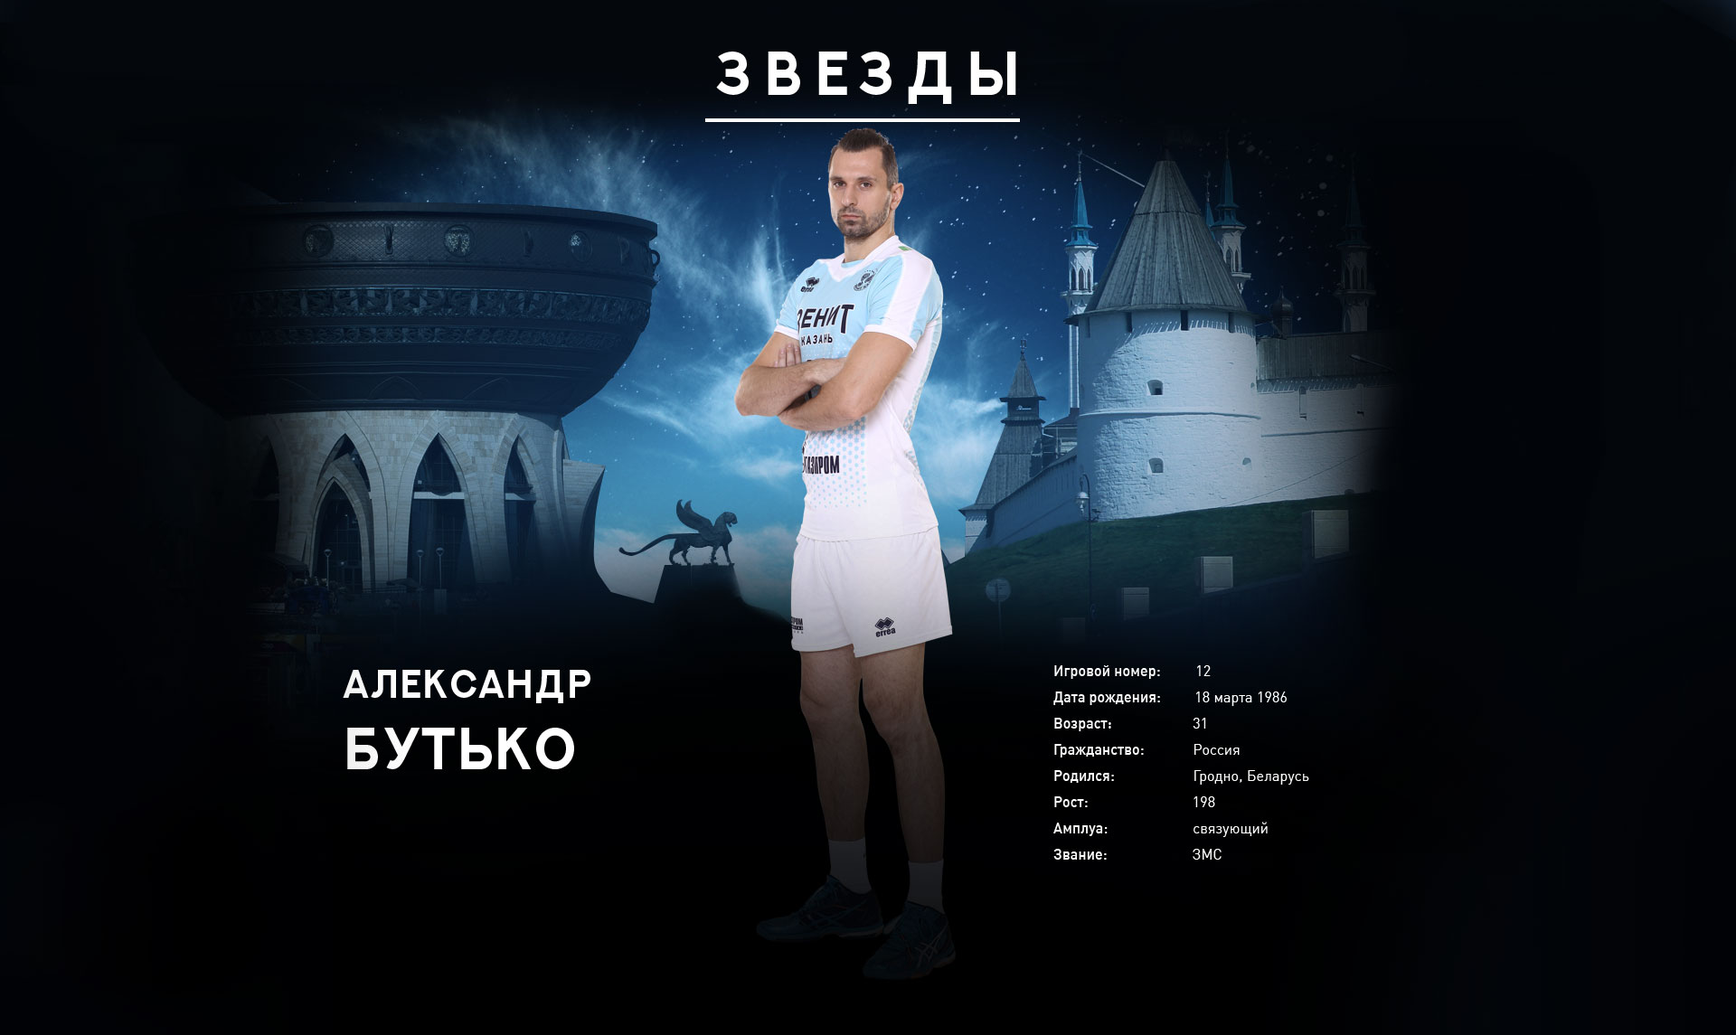
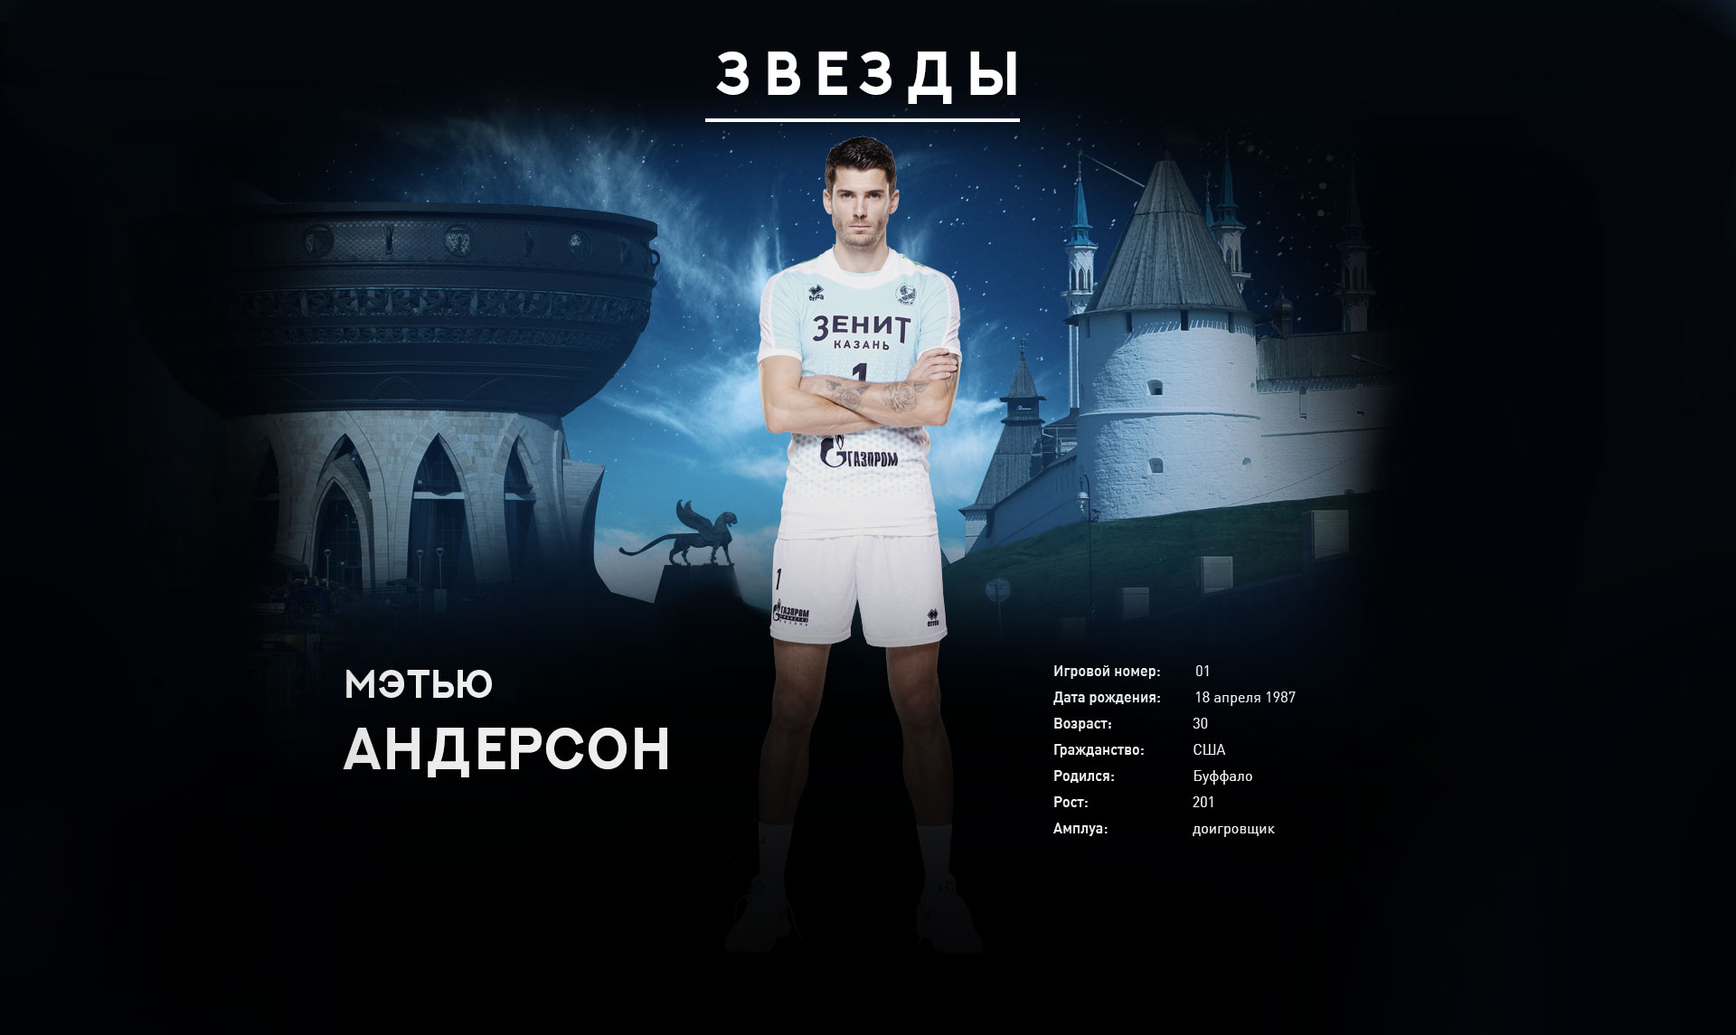
edit

diff --git a/portfol/zenit-landing/css/style.css b/portfol/zenit-landing/css/style.css
@@ -1,1 +1,1 @@
-@import url(https://fonts.googleapis.com/css?family=Open+Sans:300,400,600,700&subset=cyrillic);@font-face{font-family:'NEXTART-Thin';src:url(../fonts/NEXTART-Thin.eot);src:url(../fonts/NEXTART-Thin.woff2) format("woff2"),url(../fonts/NEXTART-Thin.woff) format("woff"),url(../fonts/NEXTART-Thin.ttf) format("truetype"),url(../fonts/NEXTART-Thin.svg#NEXTART-Thin) format("svg"),url(../fonts/NEXTART-Thin.eot?#iefix) format("embedded-opentype");font-weight:400;font-style:normal}@font-face{font-family:'NEXTART-Bold';src:url(../fonts/NEXTART-Bold.eot);src:url(../fonts/NEXTART-Bold.woff2) format("woff2"),url(../fonts/NEXTART-Bold.woff) format("woff"),url(../fonts/NEXTART-Bold.ttf) format("truetype"),url(../fonts/NEXTART-Bold.svg#NEXTART-Bold) format("svg"),url(../fonts/NEXTART-Bold.eot?#iefix) format("embedded-opentype");font-weight:400;font-style:normal}@font-face{font-family:'DINPro-Medium';src:url(../fonts/DINPro-Medium.eot);src:url(../fonts/DINPro-Medium.eot?#iefix) format("embedded-opentype"),url(../fonts/DINPro-Medium.woff2) format("woff2"),url(../fonts/DINPro-Medium.woff) format("woff"),url(../fonts/DINPro-Medium.ttf) format("truetype"),url(../fonts/DINPro-Medium.svg#DINPro-Medium) format("svg");font-weight:500;font-style:normal}@font-face{font-family:'DINPro-Bold';src:url(../fonts/DINPro-Bold.eot);src:url(../fonts/DINPro-Bold.eot?#iefix) format("embedded-opentype"),url(../fonts/DINPro-Bold.woff2) format("woff2"),url(../fonts/DINPro-Bold.woff) format("woff"),url(../fonts/DINPro-Bold.ttf) format("truetype"),url(../fonts/DINPro-Bold.svg#DINPro-Bold) format("svg");font-weight:700;font-style:normal}@font-face{font-family:'DINPro-Light';src:url(../fonts/DINPro-Light.eot);src:url(../fonts/DINPro-Light.eot?#iefix) format("embedded-opentype"),url(../fonts/DINPro-Light.woff2) format("woff2"),url(../fonts/DINPro-Light.woff) format("woff"),url(../fonts/DINPro-Light.ttf) format("truetype"),url(../fonts/DINPro-Light.svg#DINPro-Light) format("svg");font-weight:300;font-style:normal}@font-face{font-family:'DINPro-Black';src:url(../fonts/DINPro-Black.eot);src:url(../fonts/DINPro-Black.eot?#iefix) format("embedded-opentype"),url(../fonts/DINPro-Black.woff2) format("woff2"),url(../fonts/DINPro-Black.woff) format("woff"),url(../fonts/DINPro-Black.ttf) format("truetype"),url(../fonts/DINPro-Black.svg#DINPro-Black) format("svg");font-weight:900;font-style:normal}@font-face{font-family:'DINPro-Regular';src:url(../fonts/DINPro-Regular.eot);src:url(../fonts/DINPro-Regular.eot?#iefix) format("embedded-opentype"),url(../fonts/DINPro-Regular.woff2) format("woff2"),url(../fonts/DINPro-Regular.woff) format("woff"),url(../fonts/DINPro-Regular.ttf) format("truetype"),url(../fonts/DINPro-Regular.svg#DINPro-Regular) format("svg");font-weight:400;font-style:normal}body,html{min-width:1320px;font-family:"DINPro-Regular",sans-serif}h1,h2,h3,h4{font-weight:300;font-size:3em}.header{background:url(../img/header-background.jpg) no-repeat center;background-size:cover;min-height:1010px;padding-top:45px;position:relative}.header .title-header{position:absolute;bottom:0;height:320px;background-color:rgba(0,0,0,.2);width:100%;padding-top:45px}.header .title-header .title-zenit-header{font-size:84px;color:#fff;border-bottom:4px solid;text-transform:uppercase;font-family:"NEXTART-Bold",sans-serif;letter-spacing:20px;display:inline-block;padding-bottom:5px;padding-left:15px}.header .title-header .text-zenit-header{color:#fff;font-size:44px;text-transform:uppercase;font-family:NEXTART-Thin,sans-serif;padding-top:5px;display:inline-block}.container{min-width:1320px;width:1320px;right:0;left:0;margin:auto}.list-nav-header{padding-left:0}.list-nav-header li{display:inline-block;margin-right:40px}.list-nav-header li:last-child{margin-right:0}.list-nav-header li a{font-family:"NEXTART-Bold",sans-serif;text-transform:uppercase;font-size:24px;color:#fff;text-decoration:none}.btn-price{background-color:#00c7df;padding:10px 15px;position:relative;display:inline-block}.btn-price:after{content:"";position:absolute;left:0;top:0;right:0;bottom:0;border:2px dotted #fff;margin:5px}.titul-bl{padding-top:50px}.title-titul{color:#00ade5;text-transform:uppercase;font-size:74px;font-family:"NEXTART-Bold",sans-serif;letter-spacing:20px}.row-titul-list{margin-top:35px;margin-bottom:90px}.row-titul-list .col-titul{border-right:2px solid #0b177e;text-align:center;width:20%}.row-titul-list .col-titul:last-child{border-right:0}.row-titul-list .number-image{height:260px;position:relative;margin-top:-22px}.row-titul-list .number-image .number{font-size:337px;color:#9ce4fb;line-height:0;margin-top:151px;display:inline-block;font-family:"NEXTART-Bold",sans-serif}.row-titul-list .number-image .image{position:absolute;left:-60px;right:0;margin:auto;bottom:0}.row-titul-list .bl-title{margin-top:60px}.row-titul-list .bl-title .title{font-size:32px;color:#00ade5;text-transform:uppercase;font-family:"NEXTART-Bold",sans-serif;display:block}.row-titul-list .bl-title .years-titul{display:block;font-size:18px;color:#00ade5;font-family:NEXTART-Thin,sans-serif}.swiper-container{width:100%;height:1140px}.swiper-container .swiper-wrapper .swiper-slide{background-position:center;background-size:cover}.title-slider{font-size:68px;color:#fff;border-bottom:4px solid;text-transform:uppercase;font-family:"NEXTART-Bold",sans-serif;letter-spacing:20px;display:inline-block;padding-bottom:5px;padding-left:15px}.bl-title-slider{padding-top:50px;text-align:center;position:absolute;z-index:2}.pagin-bl{width:80%;position:absolute;margin:auto;right:0;left:0;top:0;bottom:0}.pagin-bl .swiper-button-white{height:380px;top:0;bottom:0;margin:auto}.slider-stars{position:relative}.swiper-button-white{background-image:none!important}.swiper-button-next:after,.swiper-button-prev:after{content:"";position:absolute;top:0;bottom:0;margin:auto;height:70px;width:37px}.swiper-button-prev:after{background:url(../img/arrow-left.png) no-repeat center;left:-60px;right:0}.swiper-button-next:after{right:-60px;left:0;background:url(../img/arrow-right.png) no-repeat center}.slider-voleibol .bl-title-slider{padding-top:140px}.slider-voleibol .swiper-button-white{height:380px;top:0;bottom:0;margin:auto}.slider-voleibol .swiper-button-white.swiper-button-prev{border-right:6px solid #fff;padding-right:32px}.slider-voleibol .swiper-button-white.swiper-button-next{border-left:6px solid #fff;padding-left:32px}.price-bil,.price-bil:after{position:absolute;left:0;right:0}.price-bil{background-color:#00c7df;padding:32px 34px;display:inline-block;font-size:38px;text-transform:uppercase;color:#fff;font-family:"NEXTART-Bold",sans-serif;letter-spacing:7px;z-index:2;max-width:500px;text-align:center;text-decoration:none!important;cursor:pointer;margin:auto;bottom:-60px}.price-bil:after{content:"";top:0;bottom:0;border:2px dotted #fff;margin:7px}.street-bl{background:#d1e3f2 url(../img/steet-bl.jpg) no-repeat;min-height:1207px;padding-top:52px;background-position:center}.title-adres{font-size:78px;color:#000;border-bottom:4px dotted;text-transform:uppercase;font-family:"NEXTART-Bold",sans-serif;letter-spacing:20px;display:inline-block;padding-bottom:25px;padding-left:15px}.section-price-bil{background:url(../img/background-bil.jpg) no-repeat;background-size:cover;background-position:center;height:1000px;position:relative}.btn-big-price,.btn-big-price:after{position:absolute;left:0;top:0;right:0;bottom:0}.btn-big-price{max-width:1100px;height:262px;font-size:88px;color:#fff;background-color:rgba(0,199,223,.4);padding:65px 34px;display:inline-block;text-transform:uppercase;font-family:"NEXTART-Bold",sans-serif;letter-spacing:7px;z-index:2;text-align:center;text-decoration:none!important;cursor:pointer;margin:auto}.btn-big-price:after{content:"";border:2px dotted #fff;margin:15px}.mail-nik{font-family:'NEXTART-Thin',sans-serif;font-size:36px;color:#fff}.soc-ico a{margin-right:5px}.partners-link a{margin-left:50px}.footer{height:180px;background-color:#000;padding-top:50px}
+@import url(https://fonts.googleapis.com/css?family=Open+Sans:300,400,600,700&subset=cyrillic);@font-face{font-family:'NEXTART-Thin';src:url(../fonts/NEXTART-Thin.eot);src:url(../fonts/NEXTART-Thin.woff2) format("woff2"),url(../fonts/NEXTART-Thin.woff) format("woff"),url(../fonts/NEXTART-Thin.ttf) format("truetype"),url(../fonts/NEXTART-Thin.svg#NEXTART-Thin) format("svg"),url(../fonts/NEXTART-Thin.eot?#iefix) format("embedded-opentype");font-weight:400;font-style:normal}@font-face{font-family:'NEXTART-Bold';src:url(../fonts/NEXTART-Bold.eot);src:url(../fonts/NEXTART-Bold.woff2) format("woff2"),url(../fonts/NEXTART-Bold.woff) format("woff"),url(../fonts/NEXTART-Bold.ttf) format("truetype"),url(../fonts/NEXTART-Bold.svg#NEXTART-Bold) format("svg"),url(../fonts/NEXTART-Bold.eot?#iefix) format("embedded-opentype");font-weight:400;font-style:normal}@font-face{font-family:'DINPro-Medium';src:url(../fonts/DINPro-Medium.eot);src:url(../fonts/DINPro-Medium.eot?#iefix) format("embedded-opentype"),url(../fonts/DINPro-Medium.woff2) format("woff2"),url(../fonts/DINPro-Medium.woff) format("woff"),url(../fonts/DINPro-Medium.ttf) format("truetype"),url(../fonts/DINPro-Medium.svg#DINPro-Medium) format("svg");font-weight:500;font-style:normal}@font-face{font-family:'DINPro-Bold';src:url(../fonts/DINPro-Bold.eot);src:url(../fonts/DINPro-Bold.eot?#iefix) format("embedded-opentype"),url(../fonts/DINPro-Bold.woff2) format("woff2"),url(../fonts/DINPro-Bold.woff) format("woff"),url(../fonts/DINPro-Bold.ttf) format("truetype"),url(../fonts/DINPro-Bold.svg#DINPro-Bold) format("svg");font-weight:700;font-style:normal}@font-face{font-family:'DINPro-Light';src:url(../fonts/DINPro-Light.eot);src:url(../fonts/DINPro-Light.eot?#iefix) format("embedded-opentype"),url(../fonts/DINPro-Light.woff2) format("woff2"),url(../fonts/DINPro-Light.woff) format("woff"),url(../fonts/DINPro-Light.ttf) format("truetype"),url(../fonts/DINPro-Light.svg#DINPro-Light) format("svg");font-weight:300;font-style:normal}@font-face{font-family:'DINPro-Black';src:url(../fonts/DINPro-Black.eot);src:url(../fonts/DINPro-Black.eot?#iefix) format("embedded-opentype"),url(../fonts/DINPro-Black.woff2) format("woff2"),url(../fonts/DINPro-Black.woff) format("woff"),url(../fonts/DINPro-Black.ttf) format("truetype"),url(../fonts/DINPro-Black.svg#DINPro-Black) format("svg");font-weight:900;font-style:normal}@font-face{font-family:'DINPro-Regular';src:url(../fonts/DINPro-Regular.eot);src:url(../fonts/DINPro-Regular.eot?#iefix) format("embedded-opentype"),url(../fonts/DINPro-Regular.woff2) format("woff2"),url(../fonts/DINPro-Regular.woff) format("woff"),url(../fonts/DINPro-Regular.ttf) format("truetype"),url(../fonts/DINPro-Regular.svg#DINPro-Regular) format("svg");font-weight:400;font-style:normal}body,html{min-width:1320px;font-family:"DINPro-Regular",sans-serif}h1,h2,h3,h4{font-weight:300;font-size:3em}.header{background:url(../img/header-background.jpg) no-repeat center;background-size:cover;min-height:1010px;padding-top:45px;position:relative}.header .title-header{position:absolute;bottom:0;height:320px;background-color:rgba(0,0,0,.2);width:100%;padding-top:45px}.header .title-header .title-zenit-header{font-size:84px;color:#fff;border-bottom:4px solid;text-transform:uppercase;font-family:"NEXTART-Bold",sans-serif;letter-spacing:20px;display:inline-block;padding-bottom:5px;padding-left:15px}.header .title-header .text-zenit-header{color:#fff;font-size:44px;text-transform:uppercase;font-family:NEXTART-Thin,sans-serif;padding-top:5px;display:inline-block}.container{min-width:1320px;width:1320px;right:0;left:0;margin:auto}.list-nav-header{padding-left:0}.list-nav-header li{display:inline-block;margin-right:40px}.list-nav-header li:last-child{margin-right:0}.list-nav-header li a{font-family:"NEXTART-Bold",sans-serif;text-transform:uppercase;font-size:24px;color:#fff;text-decoration:none}.btn-price{background-color:#00c7df;padding:10px 15px;position:relative;display:inline-block}.btn-price:after{content:"";position:absolute;left:0;top:0;right:0;bottom:0;border:2px dotted #fff;margin:5px}.titul-bl{padding-top:50px}.title-titul{color:#00ade5;text-transform:uppercase;font-size:74px;font-family:"NEXTART-Bold",sans-serif;letter-spacing:20px}.row-titul-list{margin-top:35px;margin-bottom:90px}.row-titul-list .col-titul{border-right:2px solid #0b177e;text-align:center;width:20%}.row-titul-list .col-titul:last-child{border-right:0}.row-titul-list .number-image{height:260px;position:relative;margin-top:-22px}.row-titul-list .number-image .number{font-size:337px;color:#9ce4fb;line-height:0;margin-top:151px;display:inline-block;font-family:"NEXTART-Bold",sans-serif}.row-titul-list .number-image .image{position:absolute;left:-60px;right:0;margin:auto;bottom:0}.row-titul-list .bl-title{margin-top:60px}.row-titul-list .bl-title .title{font-size:32px;color:#00ade5;text-transform:uppercase;font-family:"NEXTART-Bold",sans-serif;display:block}.row-titul-list .bl-title .years-titul{display:block;font-size:18px;color:#00ade5;font-family:NEXTART-Thin,sans-serif}.swiper-container{width:100%;height:1140px}.swiper-container .swiper-wrapper .swiper-slide{background-position:center;background-size:cover}.title-slider{font-size:68px;color:#fff;border-bottom:4px solid;text-transform:uppercase;font-family:"NEXTART-Bold",sans-serif;letter-spacing:20px;display:inline-block;padding-bottom:5px;padding-left:15px}.bl-title-slider{padding-top:50px;text-align:center;position:absolute;z-index:2}.pagin-bl{width:80%;position:absolute;margin:auto;right:0;left:0;top:0;bottom:0}.pagin-bl .swiper-button-white{height:380px;top:0;bottom:0;margin:auto}.slider-stars{position:relative}.swiper-button-white{background-image:none!important}.swiper-button-next:after,.swiper-button-prev:after{content:"";position:absolute;top:0;bottom:0;margin:auto;height:70px;width:37px}.swiper-button-prev:after{background:url(../img/arrow-left.png) no-repeat center;left:-60px;right:0}.swiper-button-next:after{right:-60px;left:0;background:url(../img/arrow-right.png) no-repeat center}.slider-voleibol .bl-title-slider{padding-top:140px}.slider-voleibol .swiper-button-white{height:380px;top:0;bottom:0;margin:auto}.slider-voleibol .swiper-button-white.swiper-button-prev{border-right:6px solid #fff;padding-right:32px}.slider-voleibol .swiper-button-white.swiper-button-next{border-left:6px solid #fff;padding-left:32px}.price-bil{background-color:#00c7df;padding:32px 34px;display:inline-block;font-size:38px;text-transform:uppercase;color:#fff;font-family:"NEXTART-Bold",sans-serif;letter-spacing:7px;margin:auto;right:0;left:0;position:absolute;z-index:2;bottom:-60px;max-width:500px;text-align:center;text-decoration:none!important;cursor:pointer}.price-bil:after,.street-bl .list-ico li:after{content:"";position:absolute;left:0;right:0;bottom:0}.price-bil:after{border:2px dotted #fff;top:0;margin:7px}.street-bl{min-height:1207px;padding-top:52px;background-position:center!important;position:relative;overflow:hidden}.street-bl .container-tab{z-index:2;position:relative}.street-bl .content-adres{position:absolute;top:0;width:100%}.street-bl .adres-bl{min-height:1207px;padding-top:52px;background-position:center!important}.street-bl .list-ico{list-style:none;text-align:center;padding:0}.street-bl .list-ico li{width:25%;display:inline-block;position:relative}.street-bl .list-ico li:after{height:54px;width:120px;box-shadow:0 0 20px 20px #fff;top:-45px;background-color:#fff;margin:auto;-webkit-border-radius:50%;-moz-border-radius:50%;border-radius:50%;z-index:0;opacity:0;-webkit-transition:.3s all;-moz-transition:.3s all;-ms-transition:.3s all;-o-transition:.3s all;transition:.3s all}.street-bl .list-ico li a{position:relative;z-index:2}.street-bl .list-ico li.active:after,.street-bl .list-ico li:hover:after{opacity:.8}.title-adres{font-size:78px;color:#000;border-bottom:4px dotted;text-transform:uppercase;font-family:"NEXTART-Bold",sans-serif;letter-spacing:20px;display:inline-block;padding-bottom:25px;padding-left:15px}.section-price-bil{background:url(../img/background-bil.jpg) no-repeat;background-size:cover;background-position:center;height:1000px;position:relative}.btn-big-price,.btn-big-price:after{position:absolute;left:0;top:0;right:0;bottom:0}.btn-big-price{max-width:1100px;height:262px;font-size:88px;color:#fff;background-color:rgba(0,199,223,.4);padding:65px 34px;display:inline-block;text-transform:uppercase;font-family:"NEXTART-Bold",sans-serif;letter-spacing:7px;z-index:2;text-align:center;text-decoration:none!important;cursor:pointer;margin:auto}.btn-big-price:after{content:"";border:2px dotted #fff;margin:15px}.mail-nik{font-family:'NEXTART-Thin',sans-serif;font-size:36px;color:#fff}.soc-ico a{margin-right:5px}.partners-link a{margin-left:50px}.footer{height:180px;background-color:#000;padding-top:50px}

diff --git a/portfol/zenit-landing/index.html b/portfol/zenit-landing/index.html
@@ -32,7 +32,7 @@
                     <h1 class="title-zenit-header">Зенит-Казань</h1>
                 </div>
                 <div class="col-12">
-                    <span class="text-zenit-header">лучший волейбольный клуб европы</span>
+                    <span class="text-zenit-header">лучший волейбольный клуб мира</span>
                 </div>
             </div>
         </div>
@@ -133,12 +133,13 @@
       <!-- Swiper -->
     <div class="swiper-container">
         <div class="swiper-wrapper">
-            <div class="swiper-slide" style="background-image:url(img/player/anders.jpg)"></div>
-            <div class="swiper-slide" style="background-image:url(img/player/guaz.jpg)"></div>
-            <div class="swiper-slide" style="background-image:url(img/player/leon.jpg)"></div>
             <div class="swiper-slide" style="background-image:url(img/player/max.jpg)"></div>
+            <div class="swiper-slide" style="background-image:url(img/player/leon.jpg)"></div>
+            <div class="swiper-slide" style="background-image:url(img/player/anders.jpg)"></div>
+            <div class="swiper-slide" style="background-image:url(img/player/butyko.jpg)"></div>
             <div class="swiper-slide" style="background-image:url(img/player/verbov.jpg)"></div>
             <div class="swiper-slide" style="background-image:url(img/player/volv.jpg)"></div>
+            <div class="swiper-slide" style="background-image:url(img/player/guaz.jpg)"></div>
 
         </div>
         <!-- Add Arrows -->
@@ -147,7 +148,7 @@
             <div class="swiper-button-prev swiper-button-white"></div>
         </div>
     </div>
-    <a href="#" class="price-bil">Купить билет</a>
+    <a href="http://go.zenit-kazan.com/rus " class="price-bil">Купить билет</a>
 </section>
 <section class=" slider-voleibol">
     <div class="container bl-title-slider">
@@ -167,9 +168,14 @@
             <div class="swiper-slide" style="background-image:url(img/stad/5.jpg)"></div>
             <div class="swiper-slide" style="background-image:url(img/stad/6.jpg)"></div>
             <div class="swiper-slide" style="background-image:url(img/stad/7.jpg)"></div>
-            <div class="swiper-slide" style="background-image:url(img/stad/8.jpg)"></div>
+            <div class="swiper-slide" style="background-image:url(img/stad/9.jpg)"></div>
+            <div class="swiper-slide" style="background-image:url(img/stad/10.jpg)"></div>
+            <div class="swiper-slide" style="background-image:url(img/stad/11.jpg)"></div>
+            <div class="swiper-slide" style="background-image:url(img/stad/12.jpg)"></div>
 
         </div>
+
+
         <!-- Add Arrows -->
         <div class="pagin-bl">
             <div class="swiper-button-next swiper-button-white"></div>
@@ -178,17 +184,35 @@
     </div>
 </section>
 <section class="street-bl" id="adres">
-    <div class="container">
+    <div class="container container-tab">
         <div class="row">
             <div class="col-12 text-center">
                 <h2 class="title-adres">Как добраться</h2>
             </div>
         </div>
+        <div class="row">
+            <div class="col-12">
+                <ul id="tabs-nav" class="list-ico">
+                    <li><a href="#tab1">
+                        <img src="img/car1.png">
+                    </a></li>
+                    <li><a href="#tab2">
+                        <img src="img/car2.png" style="    top: 12px;    position: relative;">
+                    </a></li>
+                </ul> <!-- END tabs-nav -->
+            </div>
+        </div>
     </div>
 
+    <div id="tabs-content" class="content-adres">
+        <div id="tab1" class="tab-content adres-bl" style="background: #d1e3f2 url(../img/mapcar2.jpg)no-repeat">
+        </div>
+        <div id="tab2" class="tab-content adres-bl" style="display: none; background: #d1e3f2 url(../img/mapcar1.jpg)no-repeat">
+        </div>
+    </div>
 </section>
 <section class="section-price-bil" id="price">
-    <a href="#" class="btn-big-price">Купить билет</a>
+    <a href="http://go.zenit-kazan.com/rus " class="btn-big-price">Купить билет</a>
 </section>
 <footer class="footer">
     <div class="container">
@@ -196,11 +220,11 @@
             <div class="col-6">
                 <a href="#" class="mail-nik">volleyzenit</a>
                 <div class="soc-ico">
-                    <a href="#"><img src="img/ico_vk.png"></a>
-                    <a href="#"><img src="img/ico_youtub.png"></a>
-                    <a href="#"><img src="img/ico_inst.png"></a>
-                    <a href="#"><img src="img/ico_twit.png"></a>
-                    <a href="#"><img src="img/ico_fb.png"></a>
+                    <a target="_blank" href="http://vk.com/volleyzenit"><img src="img/ico_vk.png"></a>
+                    <a target="_blank" href="http://www.youtube.com/volleyzenit"><img src="img/ico_youtub.png"></a>
+                    <a target="_blank" href="https://www.instagram.com/volleyzenit/"><img src="img/ico_inst.png"></a>
+                    <a target="_blank" href="https://twitter.com/volleyzenit "><img src="img/ico_twit.png"></a>
+                    <a target="_blank" href="http://www.facebook.com/volleyzenit "><img src="img/ico_fb.png"></a>
                 </div>
             </div>
             <div class="col-6 text-right partners-link">
@@ -214,6 +238,8 @@
         </div>
     </div>
 </footer>
+
+
 <script src="bower_components/jquery/dist/jquery.min.js"></script>
 <script src="bower_components/swiper/dist/js/swiper.min.js"></script>
 <script src="js/script.js"></script>

diff --git a/portfol/zenit-landing/js/script.js b/portfol/zenit-landing/js/script.js
@@ -53,5 +53,21 @@ $(document).ready(function () {
             nextEl: '.swiper-button-next',
             prevEl: '.swiper-button-prev',
         },
-    })
+    });
+
+
+    $('#tabs-nav li:first-child').addClass('active');
+    $('.tab-content').show();
+    $('.tab-content:first').show();
+
+// Click function
+    $('#tabs-nav li').click(function(){
+        $('#tabs-nav li').removeClass('active');
+        $(this).addClass('active');
+        $('.tab-content').hide();
+
+        var activeTab = $(this).find('a').attr('href');
+        $(activeTab).show();
+        return false;
+    });
 })
